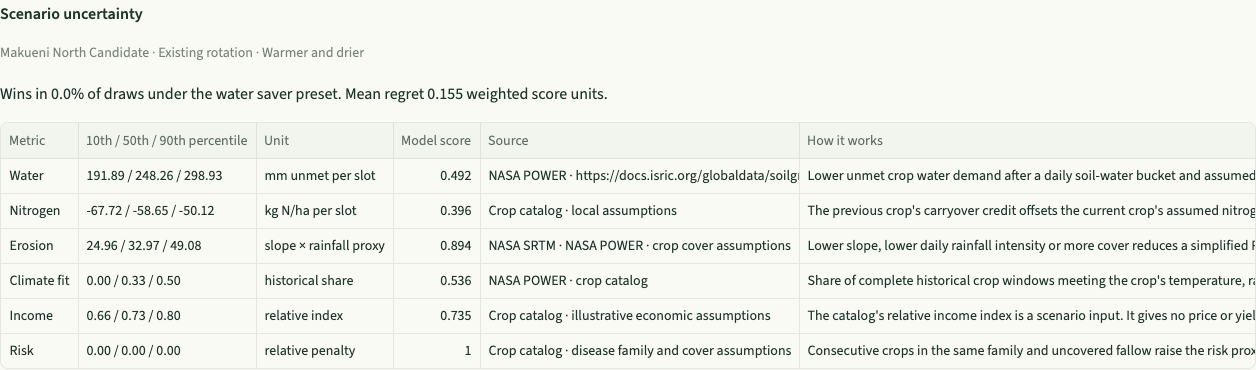
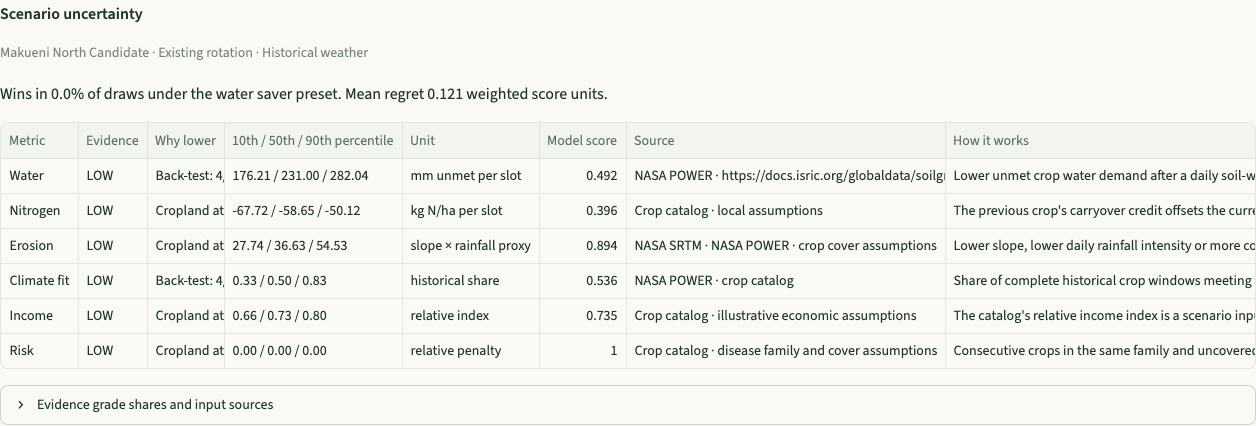
Refresh final farm screenshots with evidence and validation

diff --git a/app/main.py b/app/main.py
@@ -353,13 +353,23 @@ def app():
                                     "Source": info["source"], "How it works": info["explanation"]})
                 st.dataframe(pd.DataFrame(details), hide_index=True)
                 with st.expander("Evidence grade shares and input sources"):
+                    grade_rows = []
                     for metric, info in entry["metrics"].items():
                         evidence = info["evidence"]
-                        shares = ", ".join(f"{grade.replace('_', ' ')} {share:.0%}"
-                                           for grade, share in evidence["shares"].items() if share > 0)
-                        st.write(f"{title(metric)} · {evidence['label'].upper()} · {shares}")
-                        st.caption("; ".join(f"{item['input']}: {item['grade']} · {item['source']}"
-                                             for item in evidence["inputs"]))
+                        grade_rows.append({"Metric": title(metric), "Label": evidence["label"].upper(),
+                                           **{grade.replace("_", " ").title(): f"{share:.0%}"
+                                              for grade, share in evidence["shares"].items()}})
+                    st.dataframe(pd.DataFrame(grade_rows), hide_index=True)
+                    selected_metric = st.selectbox("Inspect input sources", METRICS, format_func=title,
+                                                   key=f"evidence_metric_{farm_id}_{key}")
+                    source_rows = {}
+                    for item in entry["metrics"][selected_metric]["evidence"]["inputs"]:
+                        lookup = (item["input"], item["grade"], item["source"])
+                        source_rows[lookup] = source_rows.get(lookup, 0) + item["weight"]
+                    st.dataframe(pd.DataFrame([{"Input": field, "Grade": grade, "Dependency share": f"{share:.0%}",
+                                                "Source": source}
+                                               for (field, grade, source), share in source_rows.items()]),
+                                 hide_index=True)
             st.caption("Information gap · The soil, crop and farm assumptions below apply to this strategy.")
 
     if result["verification"]:

diff --git a/scripts/capture_screenshots.py b/scripts/capture_screenshots.py
@@ -70,17 +70,14 @@ def capture(url, destination, channel=None):
             expect(robustness.get_by_text("Robustness check")).to_be_visible()
             expect(robustness.locator(".js-plotly-plot:visible").first).to_be_visible()
             robustness.screenshot(path=destination / f"{farm_id}_robustness.png", animations="disabled")
-            scenario = comparison.get_by_role("combobox", name="Scenario")
-            scenario.click()
-            page.get_by_role("option", name="Warmer and drier", exact=True).click()
             uncertainty = page.locator(".st-key-uncertainty_baseline")
-            expect(uncertainty.get_by_text(f"{name} · Existing rotation · Warmer and drier", exact=True)).to_be_visible()
+            expect(uncertainty.get_by_text(f"{name} · Existing rotation · Historical weather", exact=True)).to_be_visible()
             expect(uncertainty.get_by_text("Wins in", exact=False)).to_be_visible()
             uncertainty.screenshot(path=destination / f"{farm_id}_uncertainty.png", animations="disabled")
             grade_details = uncertainty.get_by_text("Evidence grade shares and input sources")
             expect(grade_details).to_be_visible()
             grade_details.click()
-            expect(uncertainty.get_by_text("nasa measured", exact=False).first).to_be_visible()
+            expect(uncertainty.get_by_role("combobox", name="Inspect input sources")).to_be_visible()
             uncertainty.screenshot(path=destination / f"{farm_id}_evidence.png", animations="disabled")
             page.close()
         browser.close()

diff --git a/docs/portability.md b/docs/portability.md
@@ -11,7 +11,7 @@ The tracked Python, Markdown, configuration and build files use repository-relat
 
 The app has no runtime dependency on `data/raw/`, `data/cache/`, `ndvi_*.csv`, `coverage_p4.json`, the source crop CSV or the precompute configuration files. The offline back-test rebuild (`python -m src.backtest`) does read the committed Kansas CDL raw sample, crop CSV, climate and NDVI processed files. Keep the committed archives and fixtures when running the full test suite or rebuilding processed data. Install the pinned requirements in a fresh Python 3.12 virtual environment, then run `python -m pytest -q` and `python -m streamlit run app/main.py` from the checkout.
 
-The screenshot script starts its own loopback-only Streamlit server, blocks external HTTP resources in the browser, and opens a separate session per farm. The uncertainty panels use the existing rotation under the warmer and drier scenario. With Google Chrome installed:
+The screenshot script starts its own loopback-only Streamlit server, blocks external HTTP resources in the browser, and opens a separate session per farm. The uncertainty panels use the existing rotation under historical-weather draws. With Google Chrome installed:
 
 ```sh
 python -m pip install -r requirements-screenshots.txt
